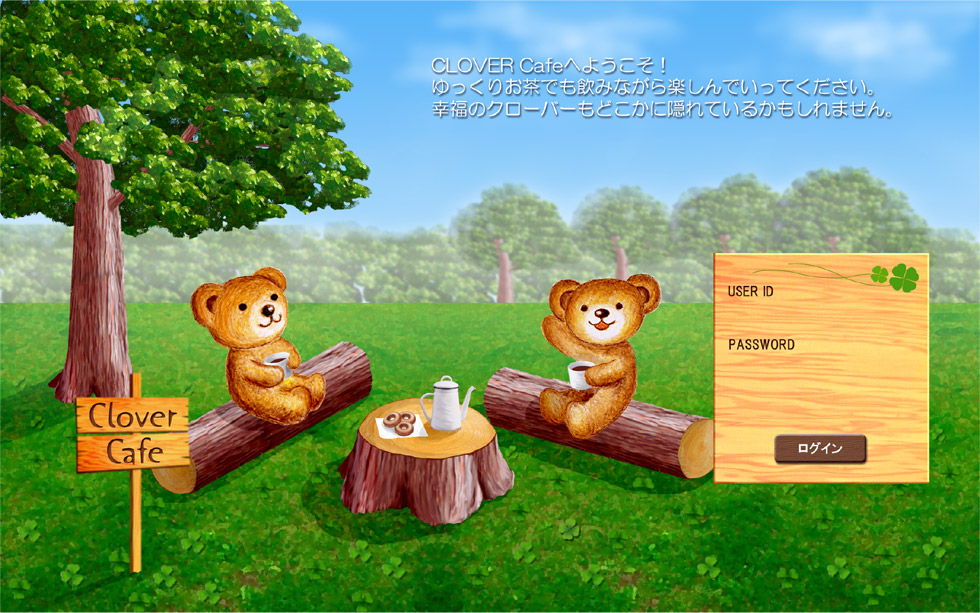
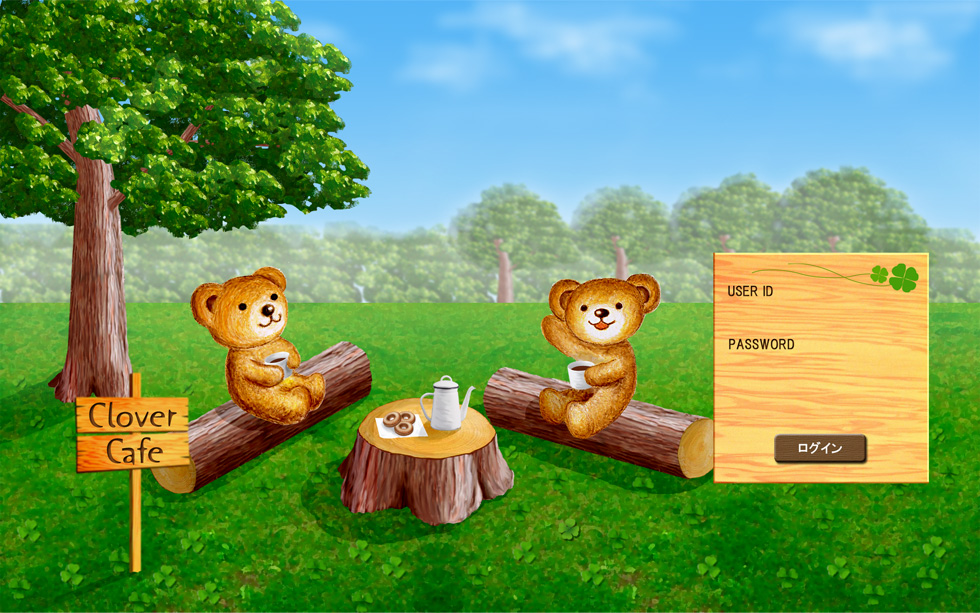
ログイン画像変更

diff --git a/login/login.css b/login/login.css
@@ -42,6 +42,16 @@ a:hover {
 	font-size: 0;
 	margin-top: 20px;
 }
+#main .title {
+	float: right;
+	color: #fff;
+	text-align: left;
+	font-size: 18px;
+	line-height: 1.4;
+	margin-top: 50px;
+	margin-right: 75px;
+	text-shadow: 2px 2px 3px #262626;
+}
 #content {
 	position:relative;
 	background: url(main.jpg) no-repeat;

diff --git a/wp-login.php b/wp-login.php
@@ -904,6 +904,9 @@ default:
 
 <div id="content">
 <div class="padder">
+<p class="title">クローバーカフェへようこそ！<br />
+ゆっくりお茶でも飲みながら楽しんでいってください。<br />
+幸福のクローバーもどこかに隠れているかもしれません。</p>
 <form name="loginform" id="loginform" action="<?php echo esc_url( site_url( 'wp-login.php', 'login_post' ) ); ?>" method="post">
 	<p>
 	<?php if ( wp_is_mobile() ) : ?>
